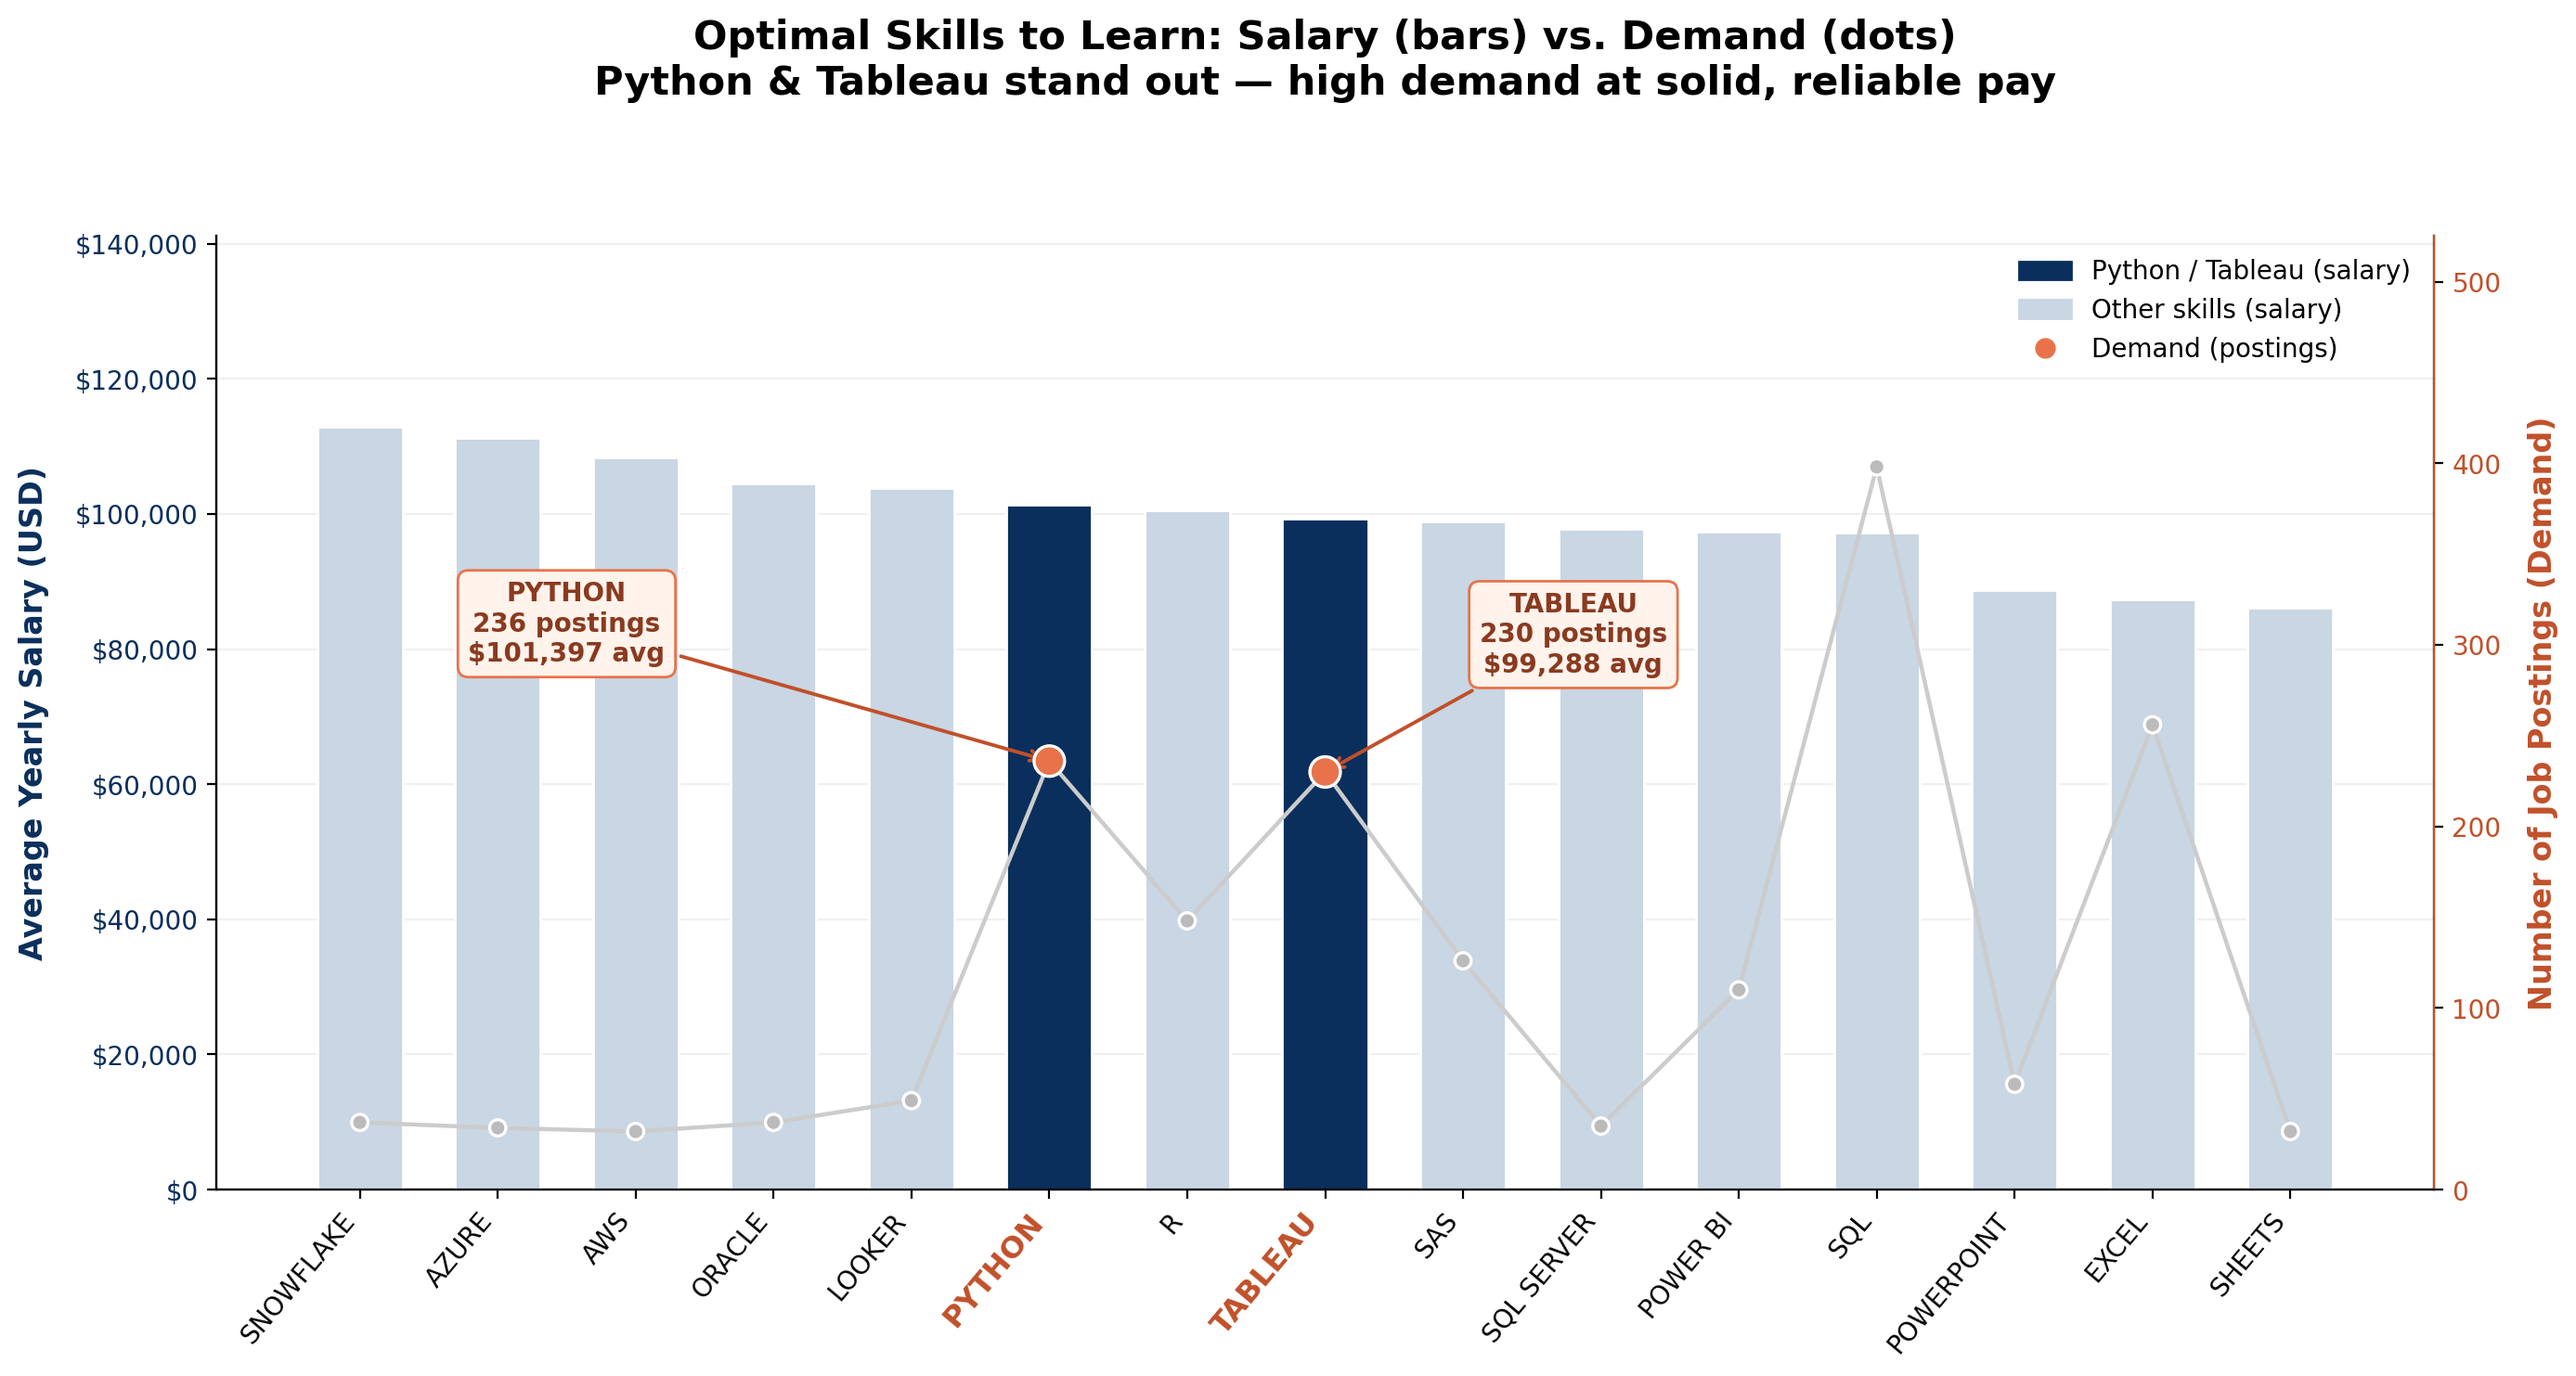
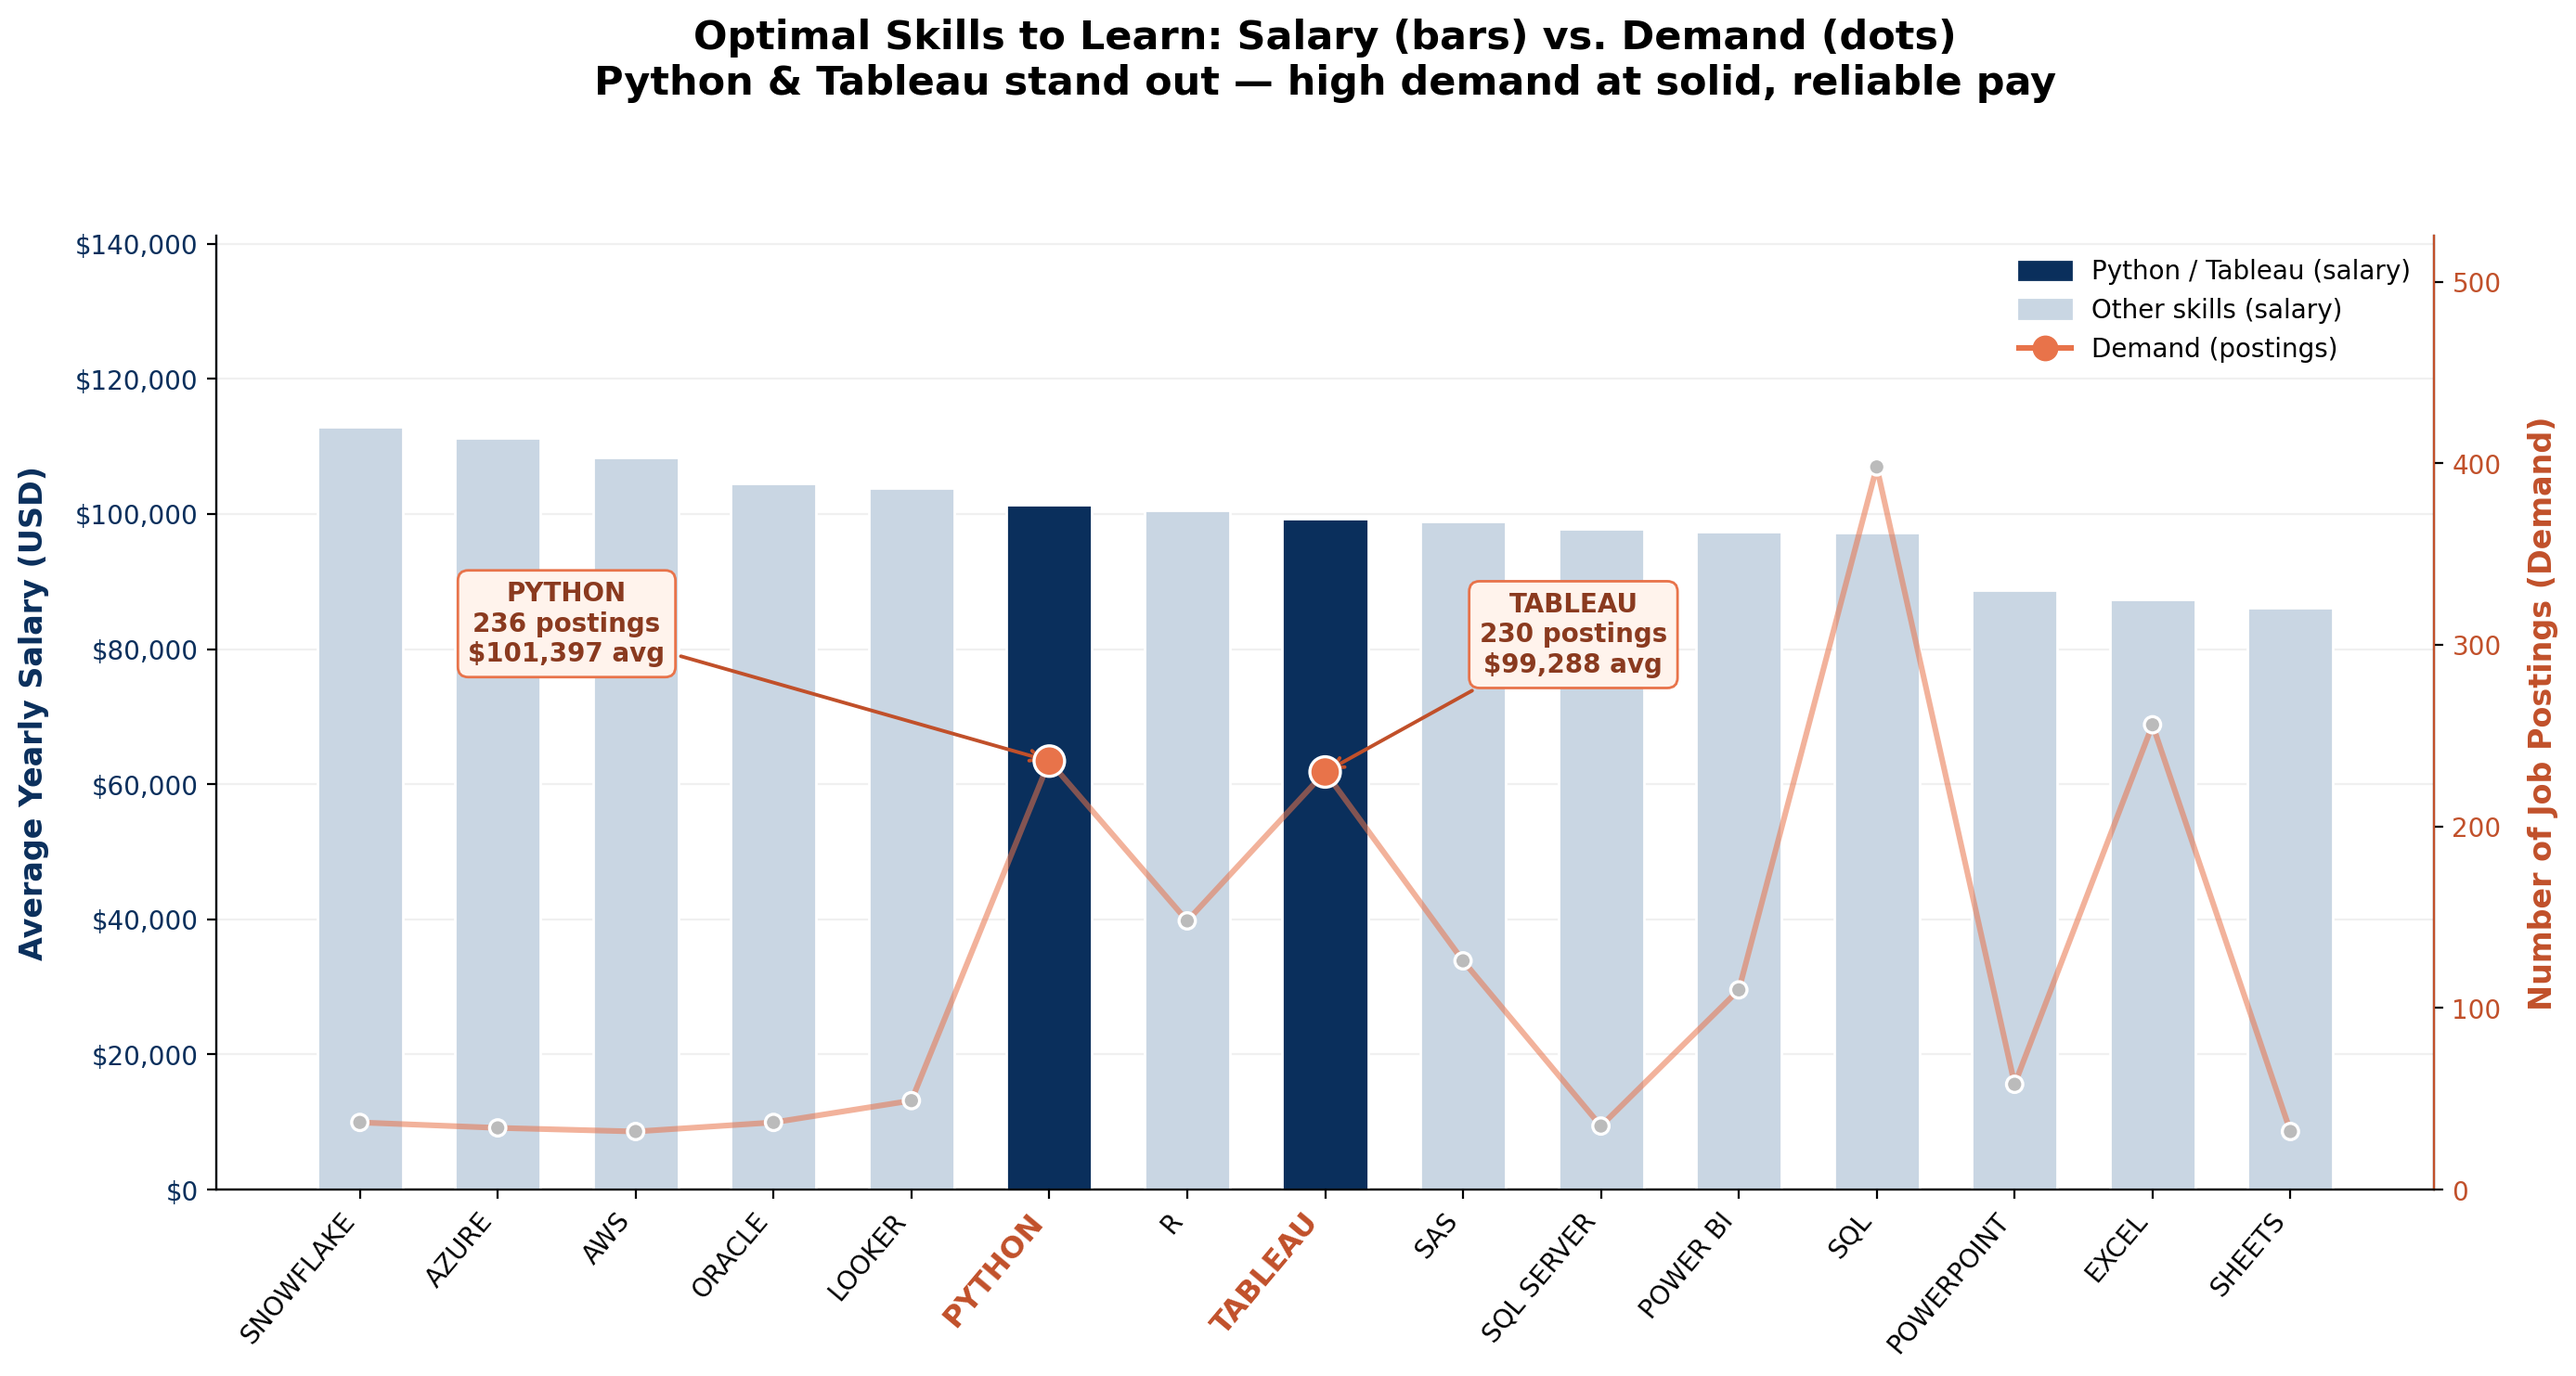
new

diff --git a/README.md b/README.md
@@ -70,12 +70,12 @@ by Azure, AWS, and Oracle — all in the $104K-$111K range.
 
 ![Optimal skills — Python and Tableau highlighted](images/optimal_skills_dual_axis.png)
 
-Python and Tableau stand out from the rest of this list: while tools like Snowflake and 
-Azure command a slightly higher average salary, they appear in far fewer postings. Python 
-and Tableau strike the best balance — appearing in 230+ postings each while still paying 
-competitively (~$100K average) — making them lower-risk, high-value skills to prioritize. 
-SQL, despite topping the demand chart at 398 postings, pays somewhat less on average 
-(~$97K), reinforcing that demand and pay don't always move together.
+SQL and Excel sit at the top of the demand chart but near the bottom on pay (~$97K and 
+~$87K) — they're foundational, near-universal skills, which keeps demand high but doesn't 
+command a premium. Python and Tableau break that pattern: both see nearly as much demand 
+(230+ postings each) while still paying noticeably more (~$99-101K), making them the 
+standout "optimal" picks — broadly requested *and* well-compensated, unlike SQL/Excel 
+(high demand, lower pay) or niche tools like Snowflake and Azure (high pay, lower demand).
 
 ---
 
@@ -101,12 +101,10 @@ sensitive to one-off postings.
   spanning tech, telecom, and social media.
 - **SQL is essential.** It appears in more Data Analyst postings than any other skill 
   (7,291 postings) — by a wide margin over the next closest skill, Excel.
-- **Some in-demand skills pay less than expected.** SQL and Excel, despite topping the 
-  demand chart, rank near the bottom on average salary among skills with 30+ postings — 
-  a reminder that foundational skills are necessary but not always the highest-paying.
-- **Python and Tableau offer the best balance.** Both appear in 230+ postings while still 
-  commanding strong average salaries (~$100K), making them high-value, reliable skills 
-  to prioritize.
+- **High demand doesn't guarantee high pay.** SQL and Excel top the demand chart but rank 
+  near the bottom on salary among skills with 30+ postings.
+- **Python and Tableau offer both.** Strong demand (230+ postings) *and* competitive pay 
+  (~$100K) make them the clearest "optimal skills" picks in this analysis.
 - **Every finding here is backed by 30+ postings**, a stricter statistical bar than many 
   beginner analyses use, making these results more trustworthy.
 
